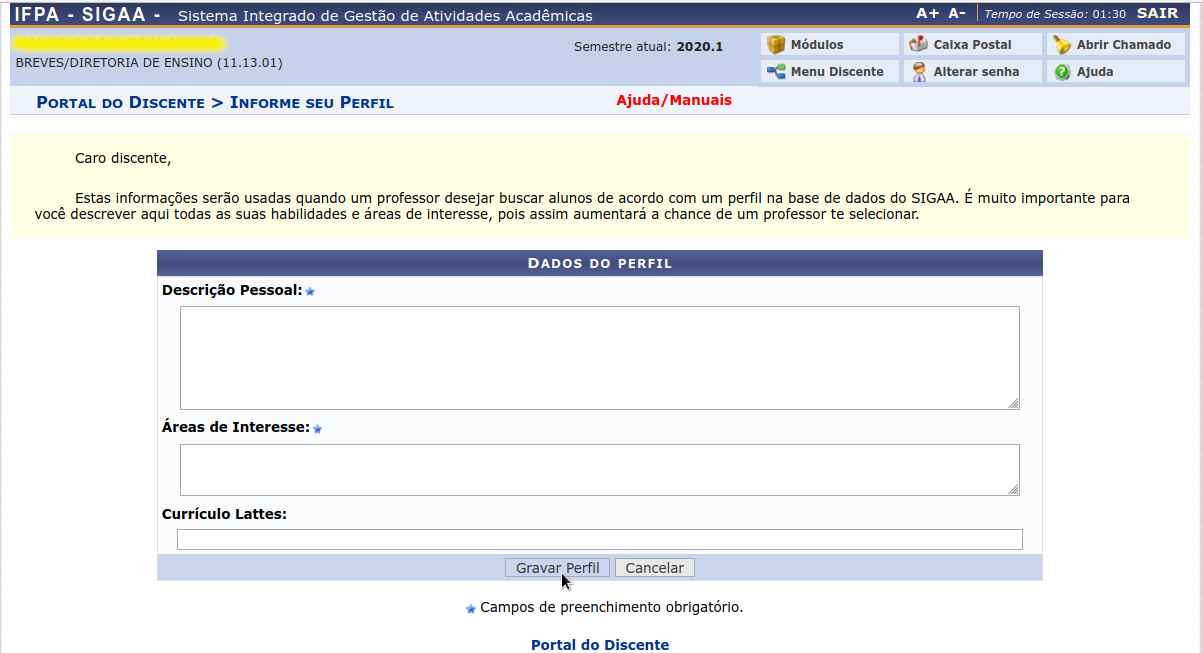
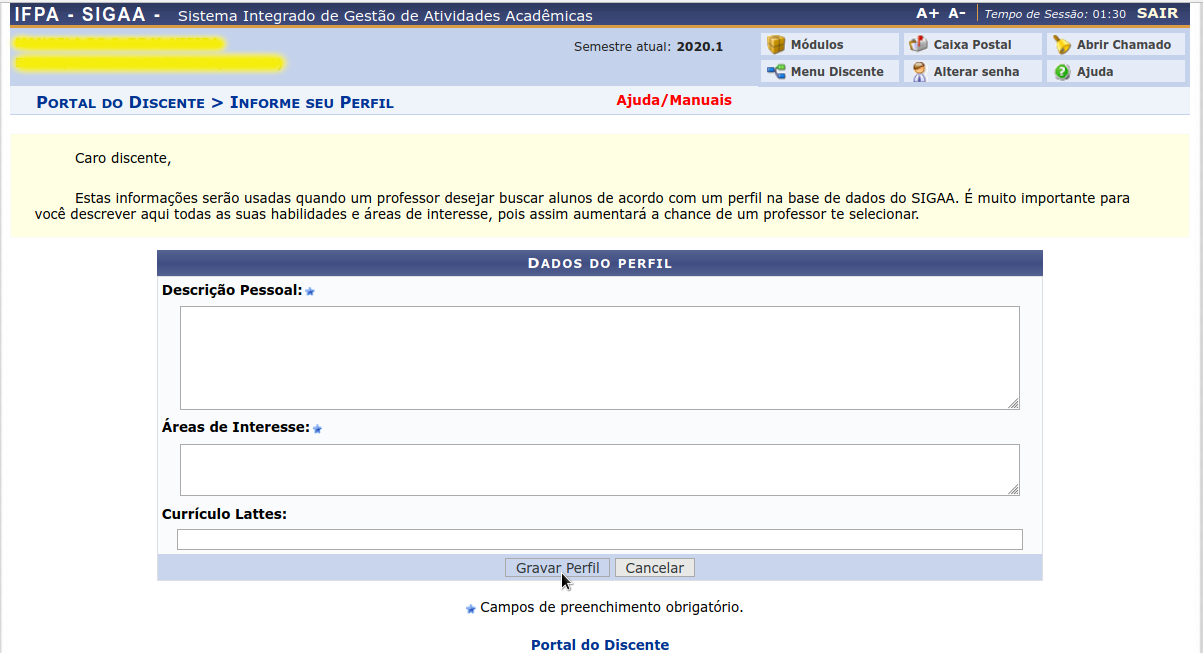
feat: adição de docs & correção de imagens

Changed region(s): [[0.0, 0.0613, 0.2461, 0.1225]]

diff --git a/docs/assistence.rst b/docs/assistence.rst
@@ -54,6 +54,66 @@ O usuário deverá ler e aceitar os termos de uso referente ao cadastro no Progr
 O usuário precisa informar suas informações de perfil antes de preencher o formulário de adesão.
 
 .. figure:: _static/img/assistence/perfil.png
+    :align: center
+
+    Formulário do perfil de adesão
+
+
+As informações submetidas pelo usuário via formulário de adesão são de fundamental importância para o Programa
+de Assistência Estudantil.
+
+.. figure:: _static/img/assistence/questionario-inicio.png
+    :align: center
+
+    Início do questionário de adesão
+
+
+.. figure:: _static/img/assistence/questionario-fim.png
+    :align: center
+
+    Final do questionário de adesão
+
+
+O usuário pode se inscrever em processos seletivos referentes a auxílios estudantis após finalizar o preenchimento
+do questionario de adesão ao Programa de Assistência Estudantil.
+
+.. figure:: _static/img/assistence/questionario-sucesso.png
+    :align: center
+
+    Questionário de adesão submetido com sucesso.
+
+
+Para se inscrever em um processo seletivo referente a auxílios estudantis, primeiramente o usuário deverá acessar
+o formulário de solicitação de bolsa.
+
+.. figure:: _static/img/assistence/solicitar-auxilio.png
+    :align: center
+
+    Solicitar auxílio
+
+
+O usuário poderá verificar quais processos seletivos estão vigentes, bem como os respectivos cronogramas de acompanhamento
+e submissão.
+
+.. figure:: _static/img/assistence/formulario-solicitacao.png
+    :align: center
+
+    Formulário de solicitação de bolsa
+
+
+O usuário preenche o formulário de requerimento com as informações necessárias e em seguida anexa os documentos
+pertinentes ao seu requerimento.
+
+.. figure:: _static/img/assistence/formulario-requerimento.png
+    :align: center
+
+    Formulário de justificativa de requerimento
+
+.. figure:: _static/img/assistence/formulario-conclusao.png
+    :align: center
+
+    Tela de conclusão de solicitação e anexo de documentação
+
 
 .. rubric:: Notas
 
